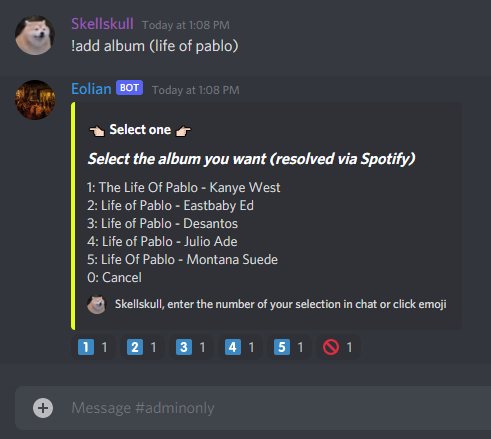
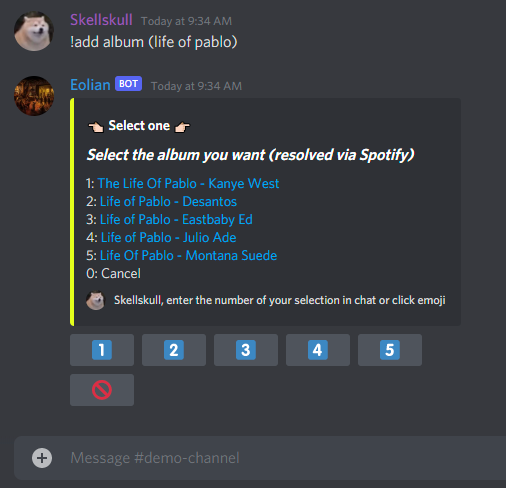
Update readme

Changed region(s): [[0.0305, 0.0296, 0.9165, 0.8292], [0.0611, 0.8884, 0.4888, 0.9772]]

diff --git a/README.md b/README.md
@@ -44,7 +44,9 @@ You can add any type of resource to the queue. Here is the list of each type of 
 
 ## 🎮 Easy To Use Buttons
 
-This bot takes every opportunity to simplify usage through the use of emoji buttons
+**NEW** No more emoji reactions!
+
+This bot takes every opportunity to simplify usage through the use of modern Discord buttons
 
 ![Player](pics/player.png)
 
